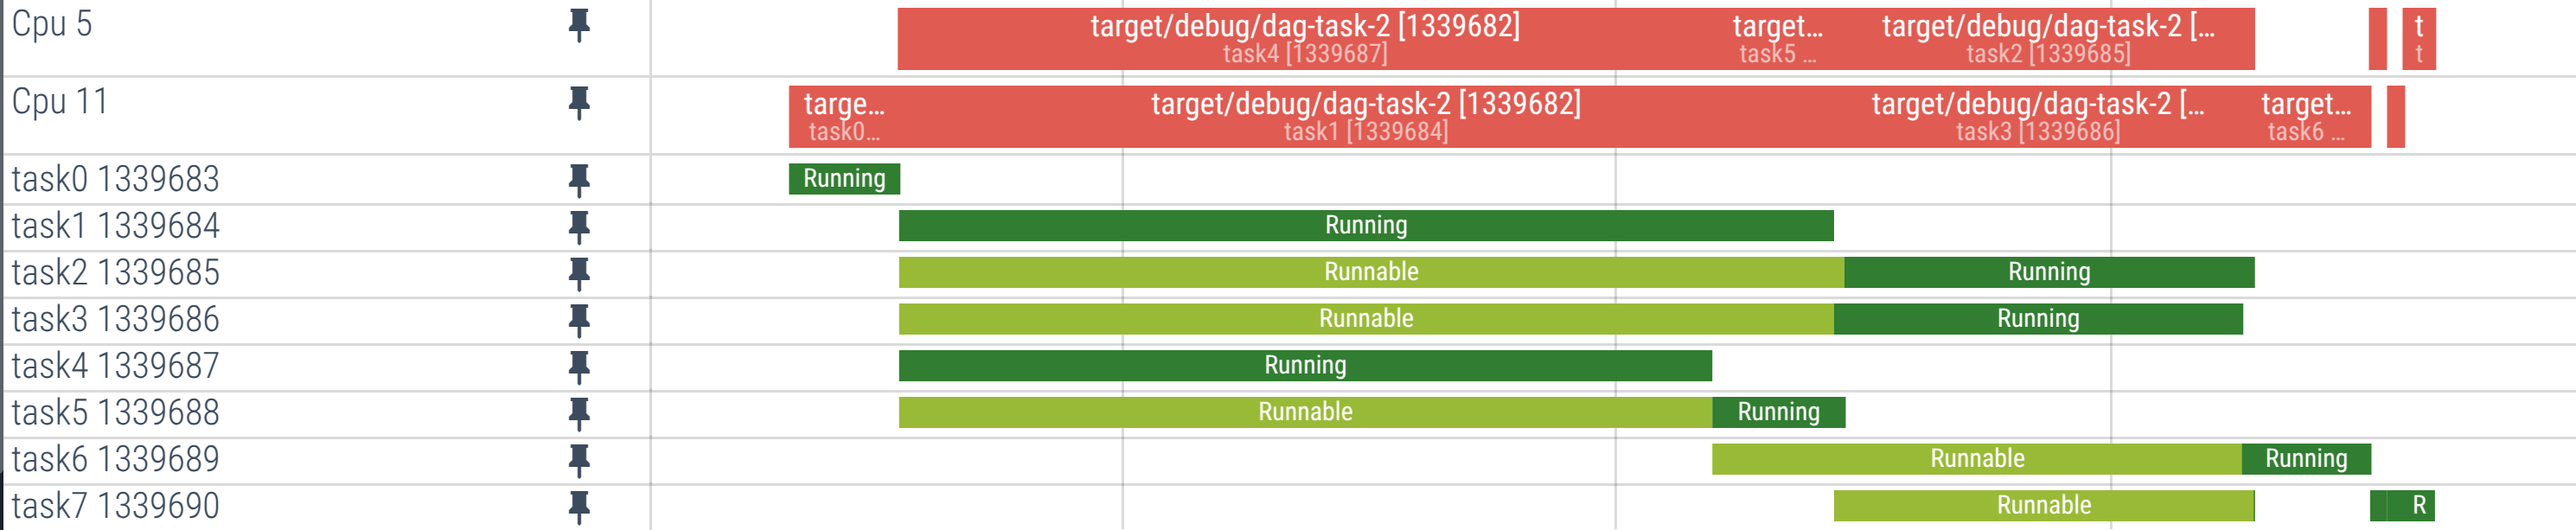
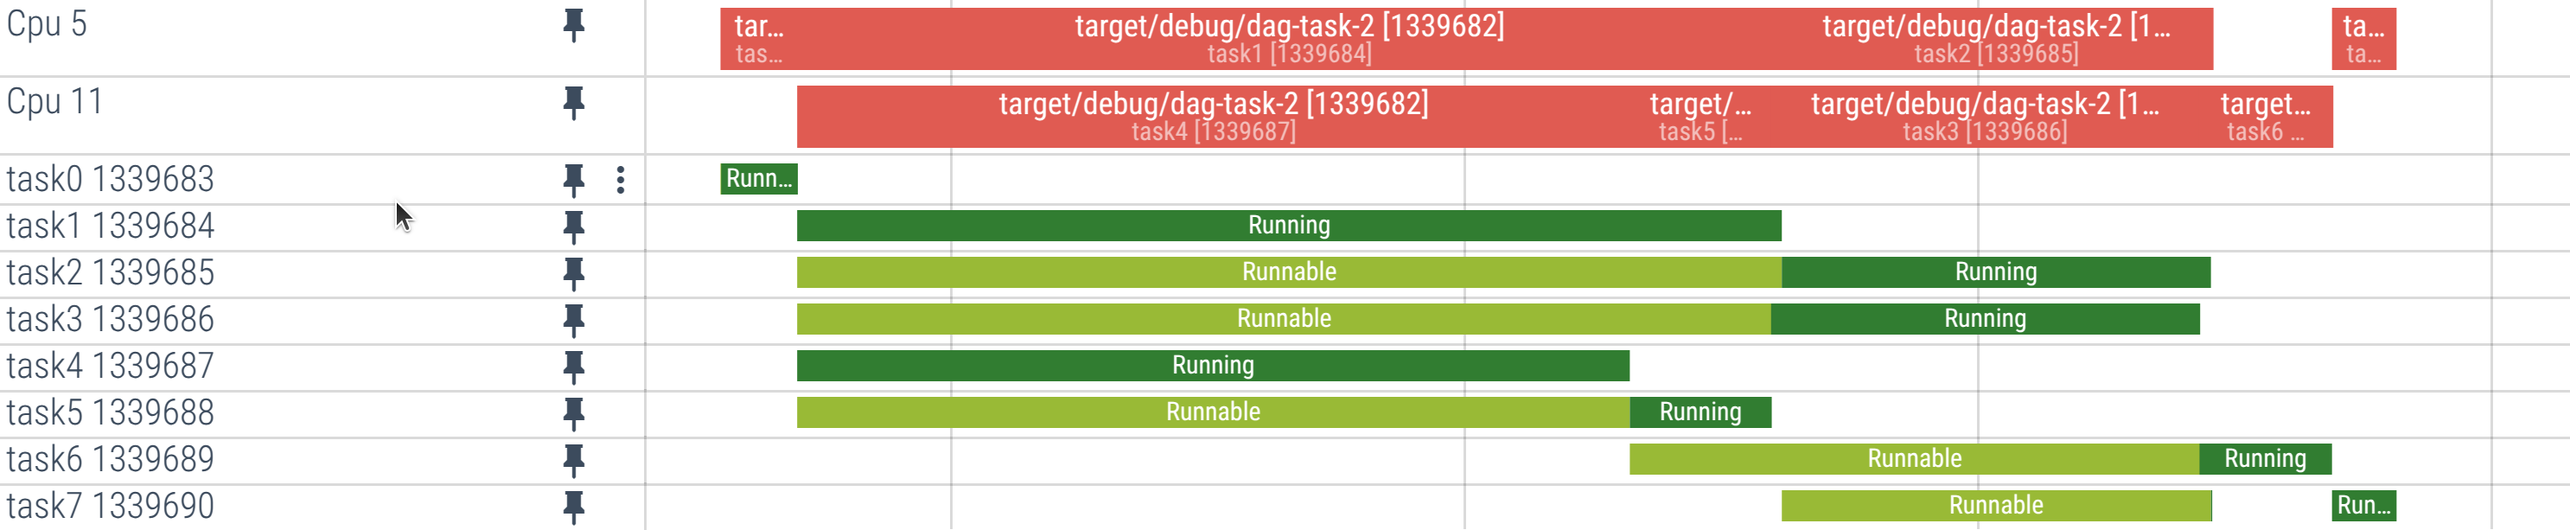
Change images in app/dag-task-2

diff --git a/app/dag-task-2/README.md b/app/dag-task-2/README.md
@@ -45,3 +45,5 @@ graph LR
 | task7 | 100 |  100 |
 
 ![](image.png)
+
+![](image-1.png)
